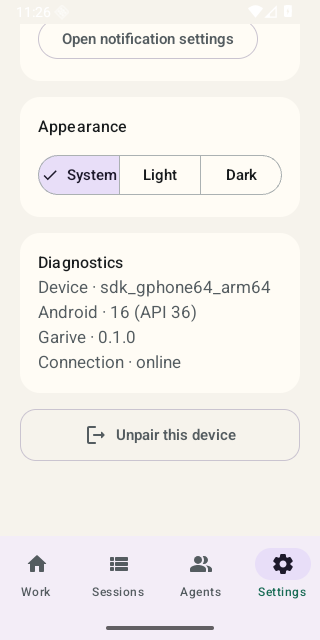
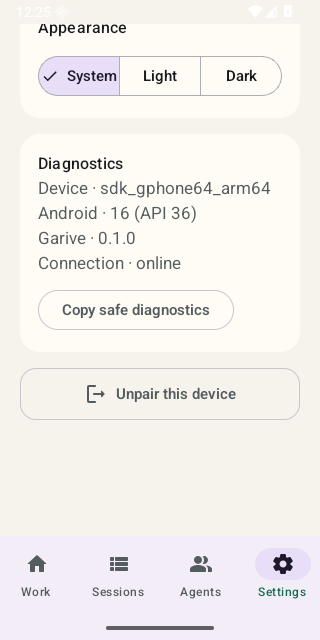
docs(mobile): capture safe sharing and diagnostics

diff --git a/spec/STATUS.md b/spec/STATUS.md
@@ -72,7 +72,7 @@ planned without reopening a narrower completed row.
 | A-DESKTOP-WA | Governed Workspaces and artifacts | accepted | accepted | documented | partial | partial | active | Complete remaining accessibility/package matrices. Session detach has an idempotent durable receipt and restart-safe projection; global revoke journals a manifest-v2 tombstone and retries Keychain cleanup after restart. Artifact export now journals only bounded opaque pending IDs, removes the exact interrupted temporary when its directory is next explicitly authorized, preserves unrelated files, and never persists or exposes a path. Immutable receipt-bound Artifact projection, digest-verified preview and one-shot no-overwrite export are implemented, and the real SQLite approval-to-file-to-Artifact flow passes. |
 | A-DESKTOP-VE | Desktop visual, journey and manual evidence | accepted | accepted | documented | partial | missing | active | The deterministic evidence verifier, Chinese manual source, eight-page tagged draft and 18-entry outline are implemented. Unlock a supported Mac, execute the stable 62-row M01–M85 full-function capture matrix on the exact candidate, close visual defects, emit a digest-bound safe screenshot manifest, replace every pending marker, and independently verify PDF/UA plus VoiceOver reading order. Deterministic fixtures prove presentation only, never product behavior. |
 | A-MOBILE | KMP/Android/iOS shells | accepted | accepted | documented | implemented | verified | done | Keep KMP real-loopback transport, XCFramework, Swift, Android SDK 36 APK and API 36 Compose instrumentation gates green; remote physical-device connectivity is not claimed. |
-| A-MOBILE-R | Native remote-work mobile product | accepted | accepted | documented | implemented | partial | active | KMP controller, secure pairing, native Compose/SwiftUI product, installable builds, Gateway/private APNs/FCM wake paths, complete 29-screenshot user guide, real native loopback actions, offline/reconnect, semantic icon navigation, local Session search/status filters, dark/200%-equivalent type, Android landscape and iPad layout evidence are verified locally. Native 26-character lowercase sortable command identities now match the accepted mutation contract. Ambiguous mutations persist strict digest-bound identity/input records across process restart, including two-stage create/start recovery, exact retry and warned local abandonment; the recovery controls remain actionable after reads reconnect. Authentication failure returns both native shells to pairing. Settings includes persistent theme, system notification controls, verified host and safe build/device diagnostics. Unpair requires an explicit scope-preserving confirmation. Android Keystore and Apple Keychain tests prove grants are absent from preferences, clear makes them unrecoverable and unpair rotates device identity. Close only with physical iOS/Android Gateway-to-Runtime create/reconnect/background/wake/decision/cancel/revoke evidence. |
+| A-MOBILE-R | Native remote-work mobile product | accepted | accepted | documented | implemented | partial | active | KMP controller, secure pairing, native Compose/SwiftUI product, installable builds, Gateway/private APNs/FCM wake paths, complete 29-screenshot user guide, real native loopback actions, offline/reconnect, semantic icon navigation, local Session search/status filters, explicit rendered-conversation sharing, dark/200%-equivalent type, Android landscape and iPad layout evidence are verified locally. Native 26-character lowercase sortable command identities now match the accepted mutation contract. Ambiguous mutations persist strict digest-bound identity/input records across process restart, including two-stage create/start recovery, exact retry and warned local abandonment; the recovery controls remain actionable after reads reconnect. Authentication failure returns both native shells to pairing. Settings includes persistent theme, system notification controls, verified host, safe build/device diagnostics and bounded safe-diagnostics clipboard export. Unpair requires an explicit scope-preserving confirmation. Android Keystore and Apple Keychain tests prove grants are absent from preferences, clear makes them unrecoverable and unpair rotates device identity. Close only with physical iOS/Android Gateway-to-Runtime create/reconnect/background/wake/decision/cancel/revoke evidence. |
 | A-UX1-A | Shared product controller | accepted | accepted | documented | implemented | verified | done | Keep exact TypeScript/KMP fixture parity, strict fixture readers, Host projection, correlation, mutation, reconnect, activity, preference and native XCFramework gates green. |
 | A-UX1 | Product client experience | accepted | accepted | partial | partial | partial | active | UX-A and Desktop UX-B are complete: the work surface now runs through the shared controller with exact create/start/cancel/text-or-boolean continuation commands, atomic bounded preference/pending recovery, restart-safe multi-turn evidence, keyboard/focus/contrast/reduced-motion checks, 200% zoom and 320px reflow. Close UX-C shared Web/native UI plus remaining localization and physical-device accessibility matrices. |
 | G0 | Go Gateway | accepted | accepted | documented | implemented | verified | done | Keep TLS-only edge composition, one-time device pairing, route/header admission, SSE passthrough, expiry/revocation and race tests green; durable multi-instance grants are a later slice. |
